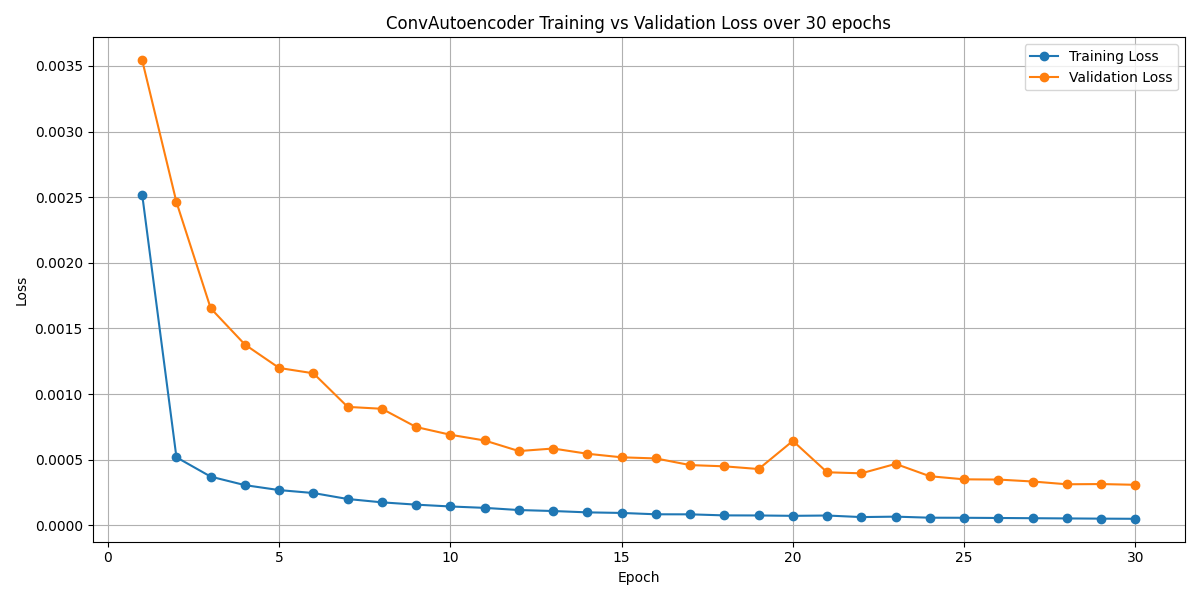
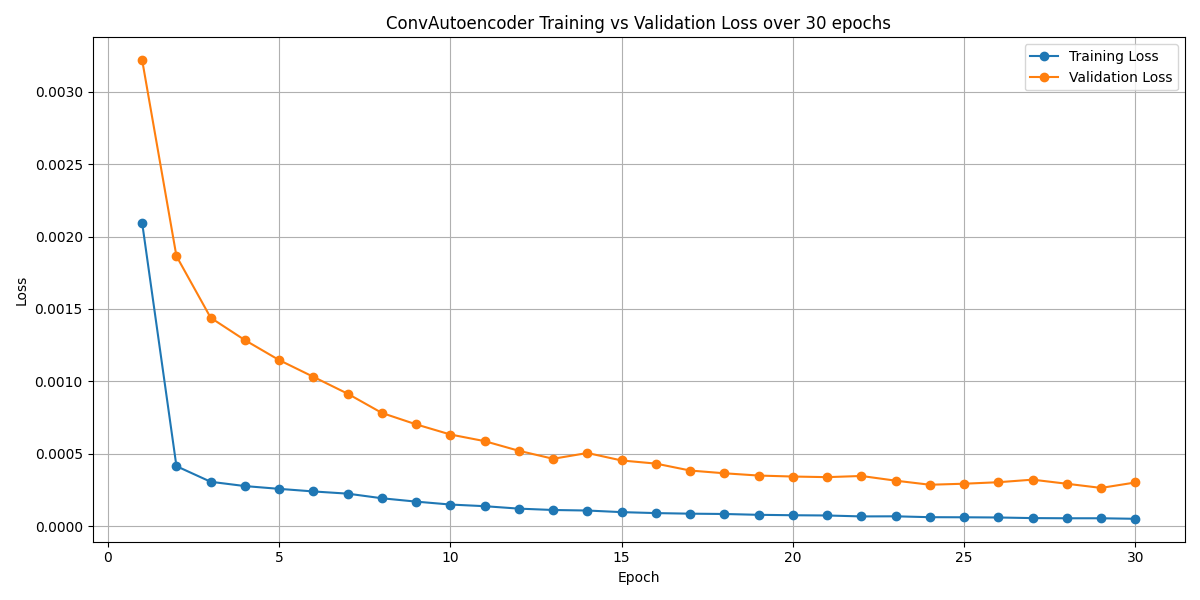
edited patience and updated experiments & its results

diff --git a/experiments/original_data/unsupervised/ConvolutionalAutoEncoder/convauto.py b/experiments/original_data/unsupervised/ConvolutionalAutoEncoder/convauto.py
@@ -33,18 +33,18 @@ class ConvAutoencoder(nn.Module):
     def __init__(self):
         super(ConvAutoencoder, self).__init__()
         self.encoder = nn.Sequential(
-            nn.Conv2d(1, 16, kernel_size=3, stride=2, padding=1),  # 128 -> 64
+            nn.Conv2d(1, 16, kernel_size=3, stride=2, padding=1),
             nn.ReLU(),
-            nn.Conv2d(16, 32, kernel_size=3, stride=2, padding=1),  # 64 -> 32
+            nn.Conv2d(16, 32, kernel_size=3, stride=2, padding=1),
             nn.ReLU(),
-            nn.Conv2d(32, 64, kernel_size=3, stride=2, padding=1)  # 32 -> 16
+            nn.Conv2d(32, 64, kernel_size=3, stride=2, padding=1)
         )
         self.decoder = nn.Sequential(
-            nn.ConvTranspose2d(64, 32, kernel_size=3, stride=2, padding=1, output_padding=1),  # 16 -> 32
+            nn.ConvTranspose2d(64, 32, kernel_size=3, stride=2, padding=1, output_padding=1),
             nn.ReLU(),
-            nn.ConvTranspose2d(32, 16, kernel_size=3, stride=2, padding=1, output_padding=1),  # 32 -> 64
+            nn.ConvTranspose2d(32, 16, kernel_size=3, stride=2, padding=1, output_padding=1),
             nn.ReLU(),
-            nn.ConvTranspose2d(16, 1, kernel_size=3, stride=2, padding=1, output_padding=1),  # 64 -> 128
+            nn.ConvTranspose2d(16, 1, kernel_size=3, stride=2, padding=1, output_padding=1),
             nn.Sigmoid()
         )
 
@@ -122,7 +122,7 @@ train_losses = []
 val_losses = []
 
 best_val_loss = float('inf')
-patience = 3
+patience = 5
 counter = 0
 
 epochs = 30  # You can still cap it, early stopping will kick in

diff --git a/experiments/augmented_data/unsupervised/EfficientEncodeAugmented/efficientaug.py b/experiments/augmented_data/unsupervised/EfficientEncodeAugmented/efficientaug.py
@@ -143,7 +143,7 @@ train_losses = []
 val_losses = []
 
 best_val_loss = float('inf')
-patience = 3
+patience = 5
 counter = 0
 
 epochs = 30  # You can adjust this; early stopping will kick in if needed

diff --git a/experiments/original_data/unsupervised/EfficientNetEncoder/efficientnet_encode.py b/experiments/original_data/unsupervised/EfficientNetEncoder/efficientnet_encode.py
@@ -143,7 +143,7 @@ train_losses = []
 val_losses = []
 
 best_val_loss = float('inf')
-patience = 3
+patience = 5
 counter = 0
 
 epochs = 30  # You can adjust this; early stopping will kick in if needed

diff --git a/experiments/original_data/unsupervised/PDN/patchdist.py b/experiments/original_data/unsupervised/PDN/patchdist.py
@@ -166,7 +166,7 @@ train_losses = []
 val_losses = []
 
 best_val_loss = float('inf')
-patience = 3
+patience = 5
 counter = 0
 
 epochs = 30  # Adjust the number of distillation epochs as needed

diff --git a/experiments/augmented_data/unsupervised/ConvolutionalAutoEncoderAugmented/convautoaug.py b/experiments/augmented_data/unsupervised/ConvolutionalAutoEncoderAugmented/convautoaug.py
@@ -122,7 +122,7 @@ train_losses = []
 val_losses = []
 
 best_val_loss = float('inf')
-patience = 3
+patience = 5
 counter = 0
 
 epochs = 30  # You can still cap it, early stopping will kick in

diff --git a/experiments/augmented_data/unsupervised/PDN/augpdn.py b/experiments/augmented_data/unsupervised/PDN/augpdn.py
@@ -166,7 +166,7 @@ train_losses = []
 val_losses = []
 
 best_val_loss = float('inf')
-patience = 3
+patience = 5
 counter = 0
 
 epochs = 1  # Adjust the number of distillation epochs as needed

diff --git a/comparative_results/OriginalData.md b/comparative_results/OriginalData.md
@@ -38,7 +38,7 @@ Lowest False Negatives:
 
 Smallest Model Size:
 1. Convolutional AutoEncoder (0.18mb)
-2. Distillation Network 
-3. CNN (Supervised)
+2. CNN (Supervised)
+3. Distillation Network 
 4. EfficientNet
 5. ResNet18 (Supervised) (42.72mb)
